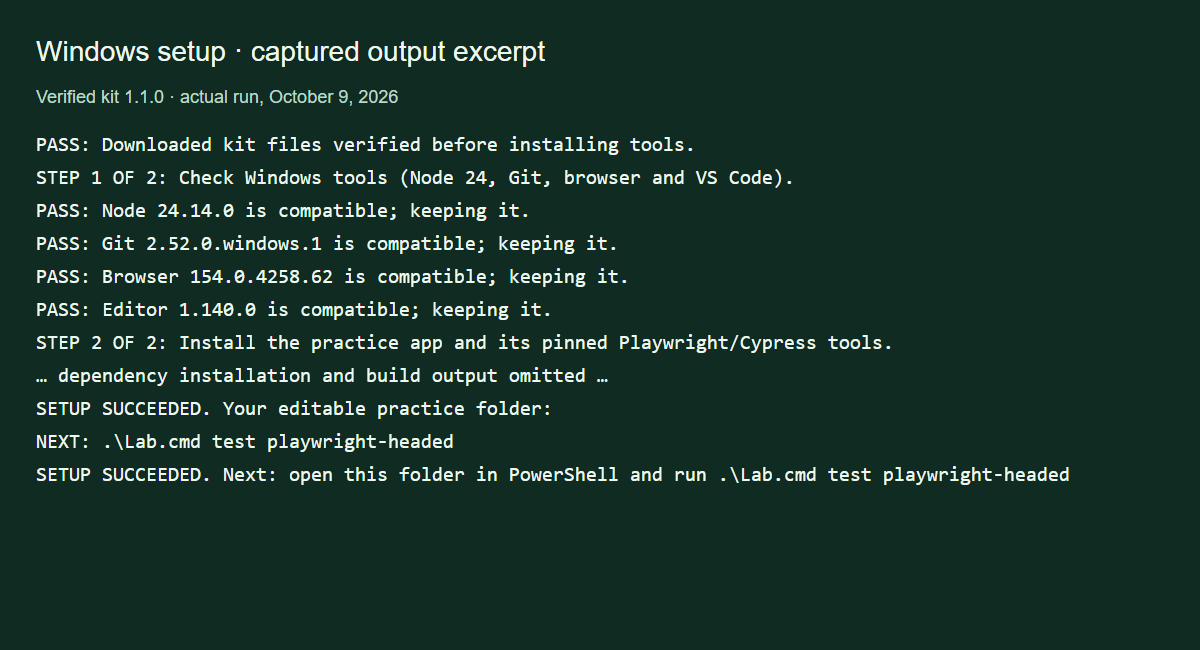
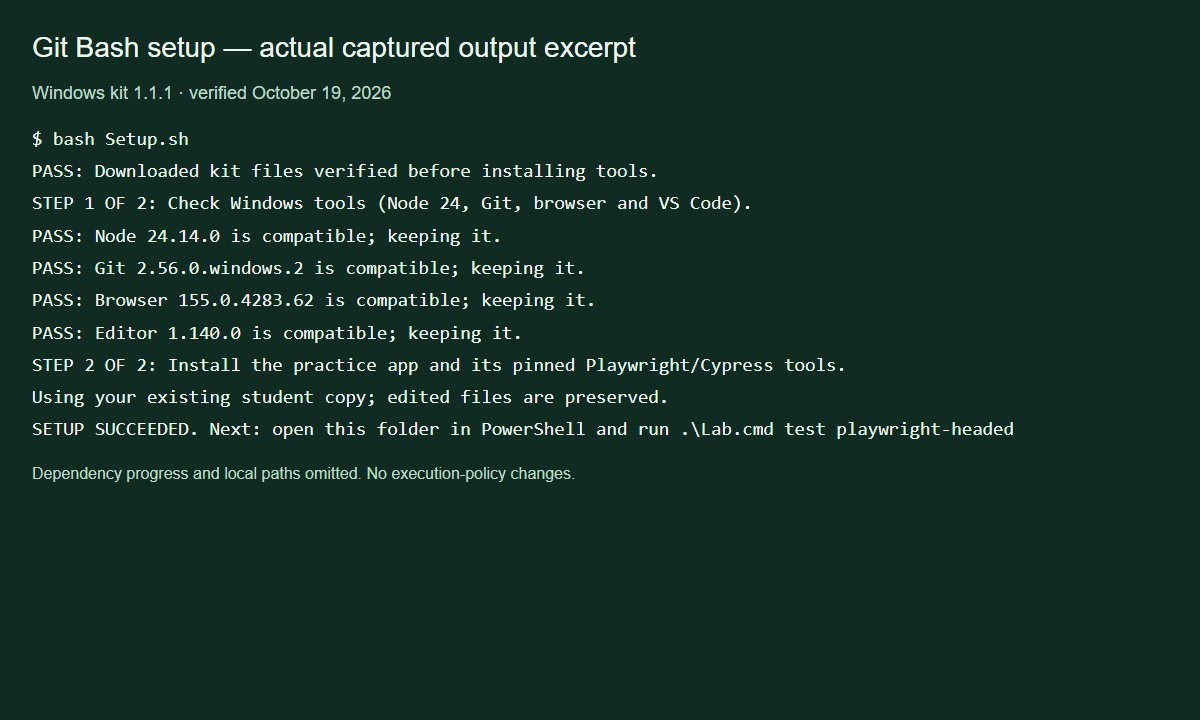
Add tested Git Bash Setup.sh and refresh Windows setup screenshot

Changed region(s): [[0.0308, 0.0308, 0.8942, 0.7385]]

diff --git a/windows-kit.html b/windows-kit.html
@@ -9,7 +9,8 @@ Unblock-File ".\mini-quiz-lab-1.1.1-windows.zip"
 Expand-Archive -LiteralPath ".\mini-quiz-lab-1.1.1-windows.zip" -DestinationPath ".\Academy-Lab-1.1.1"
 cd ".\Academy-Lab-1.1.1\Mini Quiz Lab 1.1.1"
 Get-ChildItem Setup.cmd, Lab.cmd</code></pre><p><code>cd</code> changes your current folder. <code>Get-ChildItem</code> checks the file exists. <code>Unblock-File</code> removes the download mark from this ZIP. <code>Expand-Archive</code> extracts it. The second <code>cd</code> enters the kit folder.</p><p>If your download is elsewhere, replace the first path with that folder’s full path in quotes. If the ZIP cannot be found, stop and check its name/location. If the destination already exists, use your existing kit; do not overwrite it.</p></div></div><figure><a href="assets/windows-kit/extracted-kit.jpg" target="_blank" rel="noopener"><img src="assets/windows-kit/extracted-kit.jpg" width="1127" height="594" alt="Actual Windows File Explorer showing the extracted kit, including Setup.cmd and Lab.cmd."></a><figcaption>Actual extracted kit on Windows. Look for <strong>Setup.cmd</strong> and <strong>Lab.cmd</strong>. Your parent folder will be Downloads → Academy-Lab-1.1.1. Click a screenshot to enlarge it.</figcaption></figure><p class="checkpoint"><strong>Check:</strong> you can see Setup.cmd and Lab.cmd outside the ZIP.</p></section>
-<section id="setup" class="lab-launch"><h2>2. Install and check the tools</h2><div class="choices"><div class="choice"><h3>Option A · Double-click</h3><p>Double-click <strong>Setup.cmd</strong>. Keep its window open until <strong>SETUP SUCCEEDED</strong> appears.</p></div><div class="choice"><h3>Option B · PowerShell</h3><p>From the kit folder reached in step 1, run:</p><pre><code>.\Setup.cmd</code></pre><p><code>.\</code> means “run the file in this folder.” When Setup asks you to press a key, do so to return to PowerShell.</p></div></div><p><strong>Automatic setup checks:</strong> Node.js 24, Git 2.40 or newer, Edge or Chrome 140 or newer, and VS Code 1.90 or newer. Setup also installs the practice app’s pinned Playwright and Cypress dependencies and verifies the Cypress binary.</p><p>Compatible tools print <strong>PASS</strong> and are kept. Missing or unsupported tools are installed or updated, then checked again. Approve a named installer if Windows asks. Setup installs the pinned app/test dependencies, verifies Cypress and builds the Help Desk. It can take several minutes; wait for the final message.</p><figure><a href="assets/windows-kit/setup-output.png" target="_blank" rel="noopener"><img src="assets/windows-kit/setup-output.png" width="1200" height="650" loading="lazy" alt="Verified setup output excerpt showing compatible tools kept and SETUP SUCCEEDED."></a><figcaption>Captured output from a verified Windows setup run, presented as an excerpt. Tool versions and timings vary by computer.</figcaption></figure><p class="checkpoint"><strong>Ready:</strong> SETUP SUCCEEDED. <strong>Stopped:</strong> SETUP STOPPED. Read the first error above it, fix it and rerun Setup.cmd. Repeating setup preserves your working copy.</p><details><summary>Setup troubleshooting and optional updates</summary><p>If App Installer is missing, install/update it from Microsoft Store. A school-managed PC may need its administrator. Do not disable security settings. To request updates for compatible Git/browser/editor installations, run <code>.\Setup.cmd -UpdateTools</code>; ordinary setup already repairs missing or unsupported prerequisites.</p></details></section>
+<section id="setup" class="lab-launch"><h2>2. Install and check the tools</h2><div class="choices"><div class="choice"><h3>Option A · Double-click</h3><p>Double-click <strong>Setup.cmd</strong>. Keep its window open until <strong>SETUP SUCCEEDED</strong> appears.</p></div><div class="choice"><h3>Option B · PowerShell</h3><p>From the kit folder reached in step 1, run:</p><pre><code>.\Setup.cmd</code></pre><p><code>.\</code> means “run the file in this folder.” When Setup asks you to press a key, do so to return to PowerShell.</p></div></div><p><strong>Automatic setup checks:</strong> Node.js 24, Git 2.40 or newer, Edge or Chrome 140 or newer, and VS Code 1.90 or newer. Setup also installs the practice app’s pinned Playwright and Cypress dependencies and verifies the Cypress binary.</p><p>Compatible tools print <strong>PASS</strong> and are kept. Missing or unsupported tools are installed or updated, then checked again. Approve a named installer if Windows asks. Setup installs the pinned app/test dependencies, verifies Cypress and builds the Help Desk. It can take several minutes; wait for the final message.</p><div id="git-bash"><h3>Option C · Git Bash (Setup.sh)</h3><p>If you already have Git for Windows, open the extracted kit folder, right-click and choose <strong>Open Git Bash here</strong>. Run these two commands:</p><pre><code>curl --fail --location --output Setup.sh https://raw.githubusercontent.com/JzsCodegame/SDLC---STLC/main/automation-lab/student-kit/Setup.sh
+bash Setup.sh</code></pre><p><a href="https://raw.githubusercontent.com/JzsCodegame/SDLC---STLC/main/automation-lab/student-kit/Setup.sh">Download Setup.sh separately</a> and save it beside Setup.cmd if you prefer. This add-on is separate from the unchanged 1.1.1 ZIP. It uses the same Windows installer checks through inline PowerShell, without opening a .ps1 file or changing execution policy. You do not need chmod when using bash Setup.sh. Git Bash is required; this is not a WSL/Linux installer. Wait for <strong>SETUP SUCCEEDED</strong>, then follow the separate Playwright or Cypress guide below.</p></div><figure><a href="assets/windows-kit/setup-output.png?v=20261019-gitbash" target="_blank" rel="noopener"><img src="assets/windows-kit/setup-output.png?v=20261019-gitbash" width="1200" height="650" loading="lazy" alt="Verified setup output excerpt showing compatible tools kept and SETUP SUCCEEDED."></a><figcaption>New capture: successful Git Bash setup on Windows, October 19, 2026, kit 1.1.1. This excerpt omits local paths and dependency progress. Tool versions and timings vary by computer.</figcaption></figure><p class="checkpoint"><strong>Ready:</strong> SETUP SUCCEEDED. <strong>Stopped:</strong> SETUP STOPPED. Read the first error above it, fix it and rerun Setup.cmd. Repeating setup preserves your working copy.</p><details><summary>Setup troubleshooting and optional updates</summary><p>If App Installer is missing, install/update it from Microsoft Store. A school-managed PC may need its administrator. Do not disable security settings. To request updates for compatible Git/browser/editor installations, run <code>.\Setup.cmd -UpdateTools</code>; ordinary setup already repairs missing or unsupported prerequisites.</p></details></section>
 <section id="location" class="lab-launch"><h2>3. Open PowerShell in the right folder</h2><p>If you used PowerShell above, stay in that window. If you double-clicked Setup, open Windows PowerShell from Start and run:</p><pre><code>cd "$env:USERPROFILE\Downloads\Academy-Lab-1.1.1\Mini Quiz Lab 1.1.1"
 Get-Location
 Get-ChildItem Lab.cmd</code></pre><p>Use your actual extraction path if you chose another destination. Keep quotes around paths containing spaces. <code>Get-Location</code> shows where you are; the next command must list <strong>Lab.cmd</strong>. A prompt starting at <code>C:\Windows\System32</code> is fine—<code>cd</code> moves you to the kit.</p><p class="checkpoint"><strong>If “Lab.cmd is not recognized” appears:</strong> run the <code>cd</code> command above and check Lab.cmd again. Run kit commands from this folder.</p></section>
